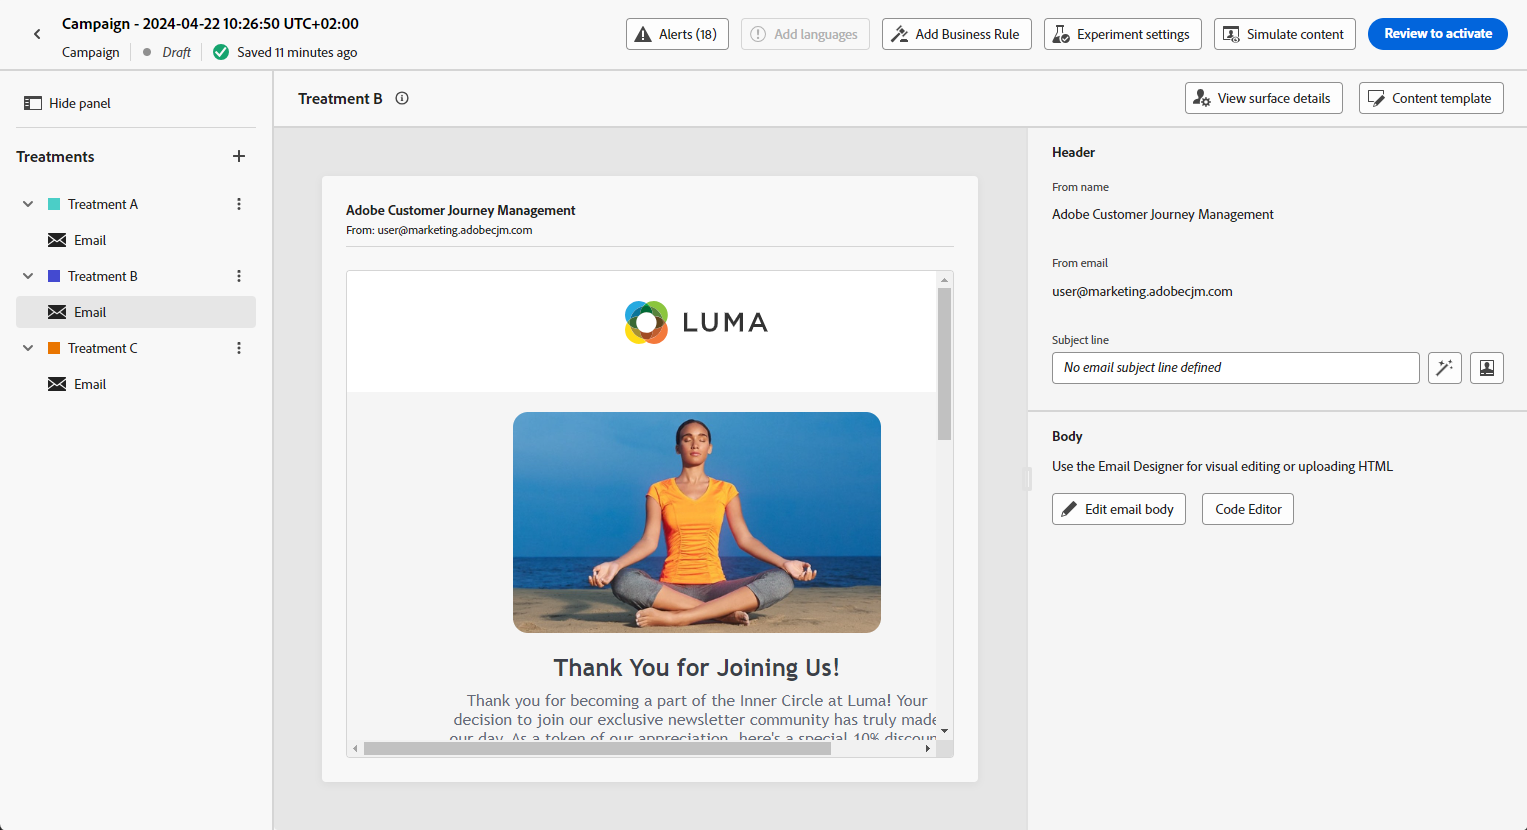
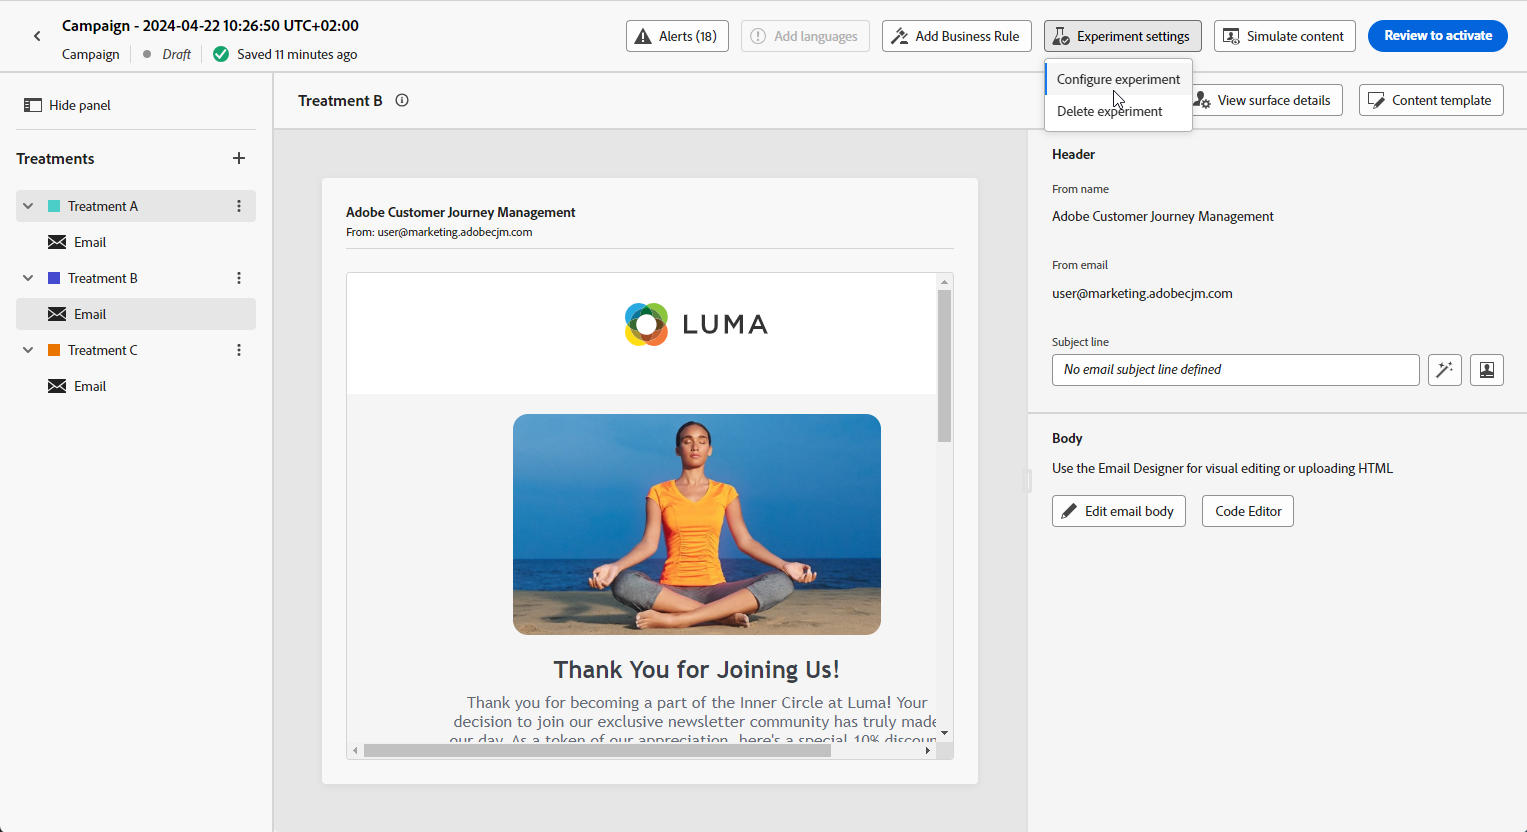
in progress

diff --git a/help/using/content-management/generative-experimentation.md b/help/using/content-management/generative-experimentation.md
@@ -45,13 +45,11 @@ Once you've crafted and personalized your messages, elevate your content with th
 
     ![](assets/experiment-genai-3.png)
 
-1. Access the **[!UICONTROL Experiment settings]** or **[!UICONTROL Actions]** menus to further personalize your Experiment. [Learn more](../campaigns/content-experiment.md)
+1. From your Content Experiment window, access the **[!UICONTROL Experiment settings]** button to configure your experiment. [Learn more on Content Experiment](../campaigns/content-experiment.md)
 
     ![](assets/experiment-genai-4.png)
 
-1. After defining your message content, click the **[!UICONTROL Simulate content]** button to control the rendering, and check personalization settings with test profiles. [Learn more](../content-management/preview-test.md)
-
-1. When your content is ready, from your campaign summary page, you can click **[!UICONTROL Review to activate]** to display a summary of the campaign. Alerts display if any parameter is incorrect or missing.
+1. When your Content experiment is ready, from your campaign summary page, you can click **[!UICONTROL Review to activate]** to display a summary of the campaign. Alerts display if any parameter is incorrect or missing. [Learn more](../campaigns/content-experiment.md#treatment-experiment)
 
 1. Before launching your campaign, double-check that all configurations are correct, and then click on **[!UICONTROL Activate]**.
 
